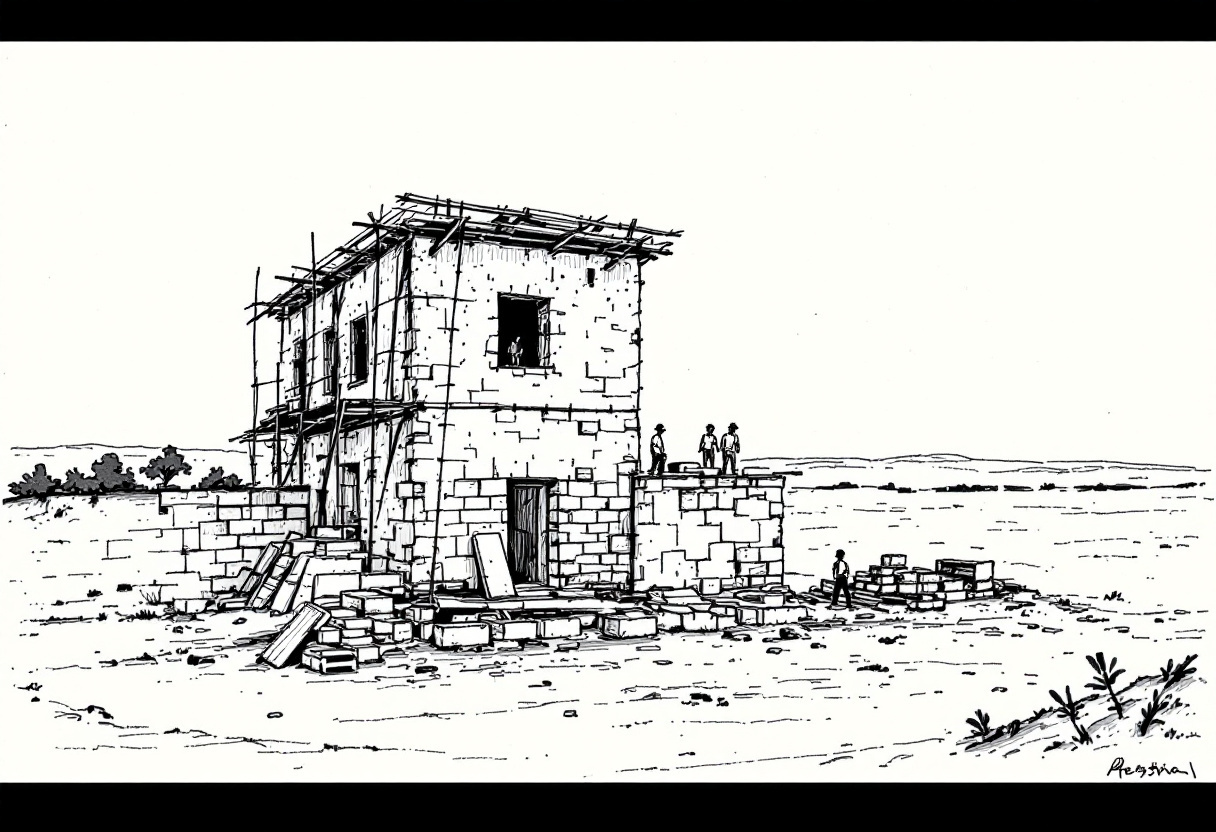
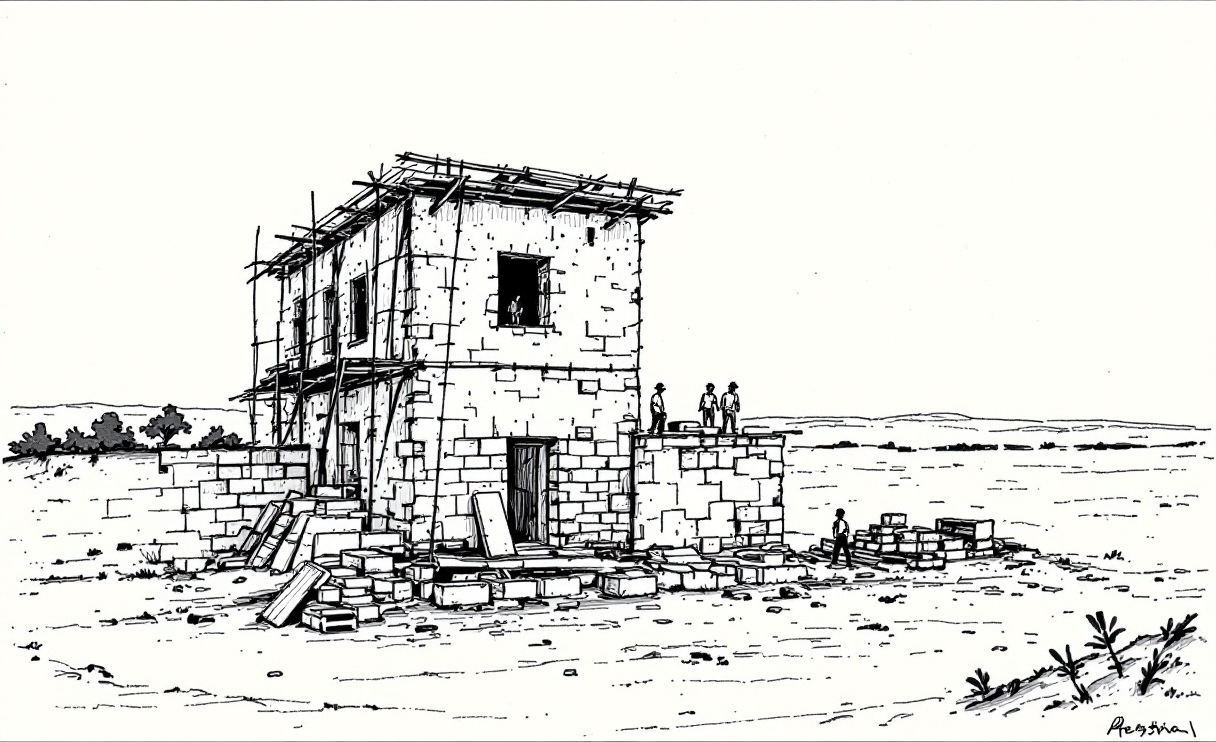
Drawings at a size worth looking at; drop the ornaments

diff --git a/index.html b/index.html
@@ -127,38 +127,31 @@ figcaption b{color:var(--ink)}
 
 
 /* ---------- book furniture ----------
-   Illustrations that sit inside the column, wrapped by the prose, so the page
-   reads as a book rather than as a list of pictures. */
+   These are drawings worth looking at, not decoration. Earlier versions ran
+   them at 38-42% of an already narrow measure, which turned them into stamps,
+   and closed each part with a 210px ornament marooned in white space. Both
+   were wrong: the pictures are the reason to scroll. */
 
-figure.vignette{width:42%;max-width:460px;margin:10px 0 22px}
-figure.vignette.vstart{float:inline-start;margin-inline-end:32px}
-figure.vignette.vend{float:inline-end;margin-inline-start:32px}
-figure.vignette figcaption{font-size:13.5px;line-height:1.6;font-style:italic;
-  margin-top:9px}
+figure.vignette{width:58%;max-width:640px;margin:14px 0 26px}
+figure.vignette.vstart{float:inline-start;margin-inline-end:36px}
+figure.vignette.vend{float:inline-end;margin-inline-start:36px}
+figure.vignette figcaption{font-size:14px;line-height:1.6;font-style:italic;
+  margin-top:10px}
 figure.vignette figcaption .tag{font-style:normal}
 
-/* A float may only ever run beside plain prose. Anything with its own box -
-   a quote, a video, a full-width plate, a pair of drawings, a heading - clears
-   first, otherwise it gets overlapped. This is the rule that was missing. */
+/* A float may only run beside plain prose. Anything with its own box - a quote,
+   a video, a full-width plate, a pair of drawings, a heading - clears first. */
 .part h2,.part h3,.part h4,
 .part .box,.part .video,.part blockquote,
 .part figure.wide,.part .sketchpair,.part .tl,
 .part .listen,.part table{clear:both}
 
-/* Below this width there is no room for text beside a picture, so stop
-   pretending there is. */
-@media(max-width:980px){
+/* A 58% float needs a genuinely wide column beside it. Below this the drawing
+   takes the full measure, which is the better way to see it anyway. */
+@media(max-width:1200px){
   figure.vignette{float:none;width:100%;max-width:none;
-    margin-inline:0;margin-block:30px}
+    margin-inline:auto;margin-block:34px}
 }
-
-/* A printer's ornament closing a part. Small, centred, faded into the paper -
-   punctuation, not another picture to study. */
-figure.tailpiece{width:210px;margin:48px auto 4px;clear:both;opacity:.8}
-figure.tailpiece img{border:0;padding:0;background:none;border-radius:0;
-  -webkit-mask-image:radial-gradient(ellipse at center,#000 46%,transparent 72%);
-          mask-image:radial-gradient(ellipse at center,#000 46%,transparent 72%)}
-figure.tailpiece figcaption{display:none}
 
 /* parts must contain their floats */
 .part::after{content:"";display:block;clear:both}
@@ -366,11 +359,6 @@ footer p{font-size:15px}
 <div><b>30 ביולי – 2 באוגוסט 1946</b>מבצע כריש: כיתור וחיפוש בתל אביב.</div>
 <div><b>סוף אוגוסט 1946</b>תורו של הנגב.</div>
 </div>
-
-<figure class="sketch tailpiece" aria-hidden="true">
-  <img src="images/sketches/sketch_1912_founding.jpg" alt="" loading="lazy" decoding="async">
-  <figcaption>רישום, לא תצלום.</figcaption>
-</figure>
 </div>
 
 <div class="hr"></div>
@@ -463,11 +451,6 @@ footer p{font-size:15px}
 <figure class="wide">
   <img src="images/ai/ruhama_1946_43_ai.jpg" alt="מבנה ברוחמה שגגו הוסר עד לקורות, וערימת חומר מתחתיו" loading="lazy" decoding="async">
   <figcaption><b>מבנה שגגו הוסר.</b> הקורות נראות בבירור מול האור — כיסוי הגג הוסר כולו, וערימת חומר נשפכה מתחתיו. ארכיון קיבוץ רוחמה, 1946, שוחזר 2026. <em>כיוון התצלום תוקן באוגוסט 2026: עד אז הוצג הפוך, ותואר בטעות כנוף.</em></figcaption>
-</figure>
-
-<figure class="sketch tailpiece" aria-hidden="true">
-  <img src="images/sketches/sketch_checkpoint.jpg" alt="" loading="lazy" decoding="async">
-  <figcaption>רישום, לא תצלום.</figcaption>
 </figure>
 </div>
 
@@ -666,11 +649,6 @@ footer p{font-size:15px}
   <img src="images/p8_the_yard_around_him.jpg" alt="החצר אחרי החיפוש, איש עומד בין ההריסות" loading="lazy" decoding="async">
   <figcaption><b>החצר, אחרי.</b> מכונות, קורות, ארגזים וכלים בערימה אחת. משמאל עומד אחד מחברי המשק ומסתכל. ארכיון קיבוץ רוחמה, 1946.</figcaption>
 </figure>
-
-<figure class="sketch tailpiece" aria-hidden="true">
-  <img src="images/sketches/sketch_1913_the_well.jpg" alt="" loading="lazy" decoding="async">
-  <figcaption>רישום, לא תצלום.</figcaption>
-</figure>
 </div>
 
 <div class="hr"></div>
@@ -707,11 +685,6 @@ footer p{font-size:15px}
 <h4>קריאה פתוחה</h4>
 <p>אין לנו את שמותיהם של ארבעת האנשים האלה. יש היום אנשים חיים שיודעים מי הם. אם אתם מכירים מישהו מקיבוץ רוחמה או ממשפחות החברים — זו השאלה הכי חשובה לשאול לפני יום השנה ה-80.</p>
 </div>
-
-<figure class="sketch tailpiece" aria-hidden="true">
-  <img src="images/sketches/sketch_raising_a_hut.jpg" alt="" loading="lazy" decoding="async">
-  <figcaption>רישום, לא תצלום.</figcaption>
-</figure>
 </div>
 
 <div class="hr"></div>
@@ -752,11 +725,6 @@ footer p{font-size:15px}
   <img src="images/p6_hands_and_the_basket.jpg" alt="ידיים אוחזות בסל קלוע" loading="lazy" decoding="async">
   <figcaption><b>מתחילים לנקות.</b> פרט מוגדל: זוג ידיים, סל קלוע, חדר הרוס. השיקום ארך חודשים והתחיל ככה.</figcaption>
 </figure>
-
-<figure class="sketch tailpiece" aria-hidden="true">
-  <img src="images/sketches/sketch_negev_map.jpg" alt="" loading="lazy" decoding="async">
-  <figcaption>רישום, לא תצלום.</figcaption>
-</figure>
 </div>
 
 <figure class="wide sketch">
@@ -791,11 +759,6 @@ footer p{font-size:15px}
 "כדי לגלות את נשק המגן תצטרכו לחרוש את כל אדמות ארץ ישראל."
 <cite>מיוחס לחיים ויצמן — הציטוט שפותח את לוח התערוכה בארכיון קיבוץ רוחמה</cite>
 </blockquote>
-
-<figure class="sketch tailpiece" aria-hidden="true">
-  <img src="images/sketches/sketch_first_building.jpg" alt="" loading="lazy" decoding="async">
-  <figcaption>רישום, לא תצלום.</figcaption>
-</figure>
 </div>
 
 <footer><div class="wrap">
@@ -877,11 +840,6 @@ footer p{font-size:15px}
 <div><b>30 July – 2 August 1946</b>Operation Shark: cordon and search of Tel Aviv.</div>
 <div><b>Late August 1946</b>The Negev's turn.</div>
 </div>
-
-<figure class="sketch tailpiece" aria-hidden="true">
-  <img src="images/sketches/sketch_1912_founding.jpg" alt="" loading="lazy" decoding="async">
-  <figcaption>A drawing, not a photograph.</figcaption>
-</figure>
 </div>
 
 <div class="hr"></div>
@@ -974,11 +932,6 @@ footer p{font-size:15px}
 <figure class="wide">
   <img src="images/ai/ruhama_1946_43_ai.jpg" alt="A building at Ruhama stripped to its bare roof trusses, a heap of material below it" loading="lazy" decoding="async">
   <figcaption><b>A building with its roof taken off.</b> The trusses stand out clearly against the light — the whole roof covering has been removed, and a heap of material has come down beneath it. Kibbutz Ruhama Archive, 1946, restored 2026. <em>Orientation corrected in August 2026: until then this print was shown upside down, and described as a landscape.</em></figcaption>
-</figure>
-
-<figure class="sketch tailpiece" aria-hidden="true">
-  <img src="images/sketches/sketch_checkpoint.jpg" alt="" loading="lazy" decoding="async">
-  <figcaption>A drawing, not a photograph.</figcaption>
 </figure>
 </div>
 
@@ -1177,11 +1130,6 @@ footer p{font-size:15px}
   <img src="images/p8_the_yard_around_him.jpg" alt="The yard after the search, a man standing among the wreckage" loading="lazy" decoding="async">
   <figcaption><b>The yard, afterwards.</b> Machinery, beams, crates and tools in a single heap. On the left one of the members stands and looks. Kibbutz Ruhama Archive, 1946.</figcaption>
 </figure>
-
-<figure class="sketch tailpiece" aria-hidden="true">
-  <img src="images/sketches/sketch_1913_the_well.jpg" alt="" loading="lazy" decoding="async">
-  <figcaption>A drawing, not a photograph.</figcaption>
-</figure>
 </div>
 
 <div class="hr"></div>
@@ -1218,11 +1166,6 @@ footer p{font-size:15px}
 <h4>An open question</h4>
 <p>We do not have the names of these four people. There are people alive today who know who they are. If you know anyone from Kibbutz Ruhama or from the members' families, this is the most important question to ask before the 80th anniversary.</p>
 </div>
-
-<figure class="sketch tailpiece" aria-hidden="true">
-  <img src="images/sketches/sketch_raising_a_hut.jpg" alt="" loading="lazy" decoding="async">
-  <figcaption>A drawing, not a photograph.</figcaption>
-</figure>
 </div>
 
 <div class="hr"></div>
@@ -1263,11 +1206,6 @@ footer p{font-size:15px}
   <img src="images/p6_hands_and_the_basket.jpg" alt="Hands gripping a woven basket" loading="lazy" decoding="async">
   <figcaption><b>Starting to clear up.</b> Enlarged detail: a pair of hands, a woven basket, a wrecked room. The rebuilding took months and it started like this.</figcaption>
 </figure>
-
-<figure class="sketch tailpiece" aria-hidden="true">
-  <img src="images/sketches/sketch_negev_map.jpg" alt="" loading="lazy" decoding="async">
-  <figcaption>A drawing, not a photograph.</figcaption>
-</figure>
 </div>
 
 <figure class="wide sketch">
@@ -1302,11 +1240,6 @@ footer p{font-size:15px}
 "To find the defence weapons you would have to plough every acre of the Land of Israel."
 <cite>Attributed to Chaim Weizmann — the quotation that opens the exhibition board in the Kibbutz Ruhama archive</cite>
 </blockquote>
-
-<figure class="sketch tailpiece" aria-hidden="true">
-  <img src="images/sketches/sketch_first_building.jpg" alt="" loading="lazy" decoding="async">
-  <figcaption>A drawing, not a photograph.</figcaption>
-</figure>
 </div>
 
 <footer><div class="wrap">
